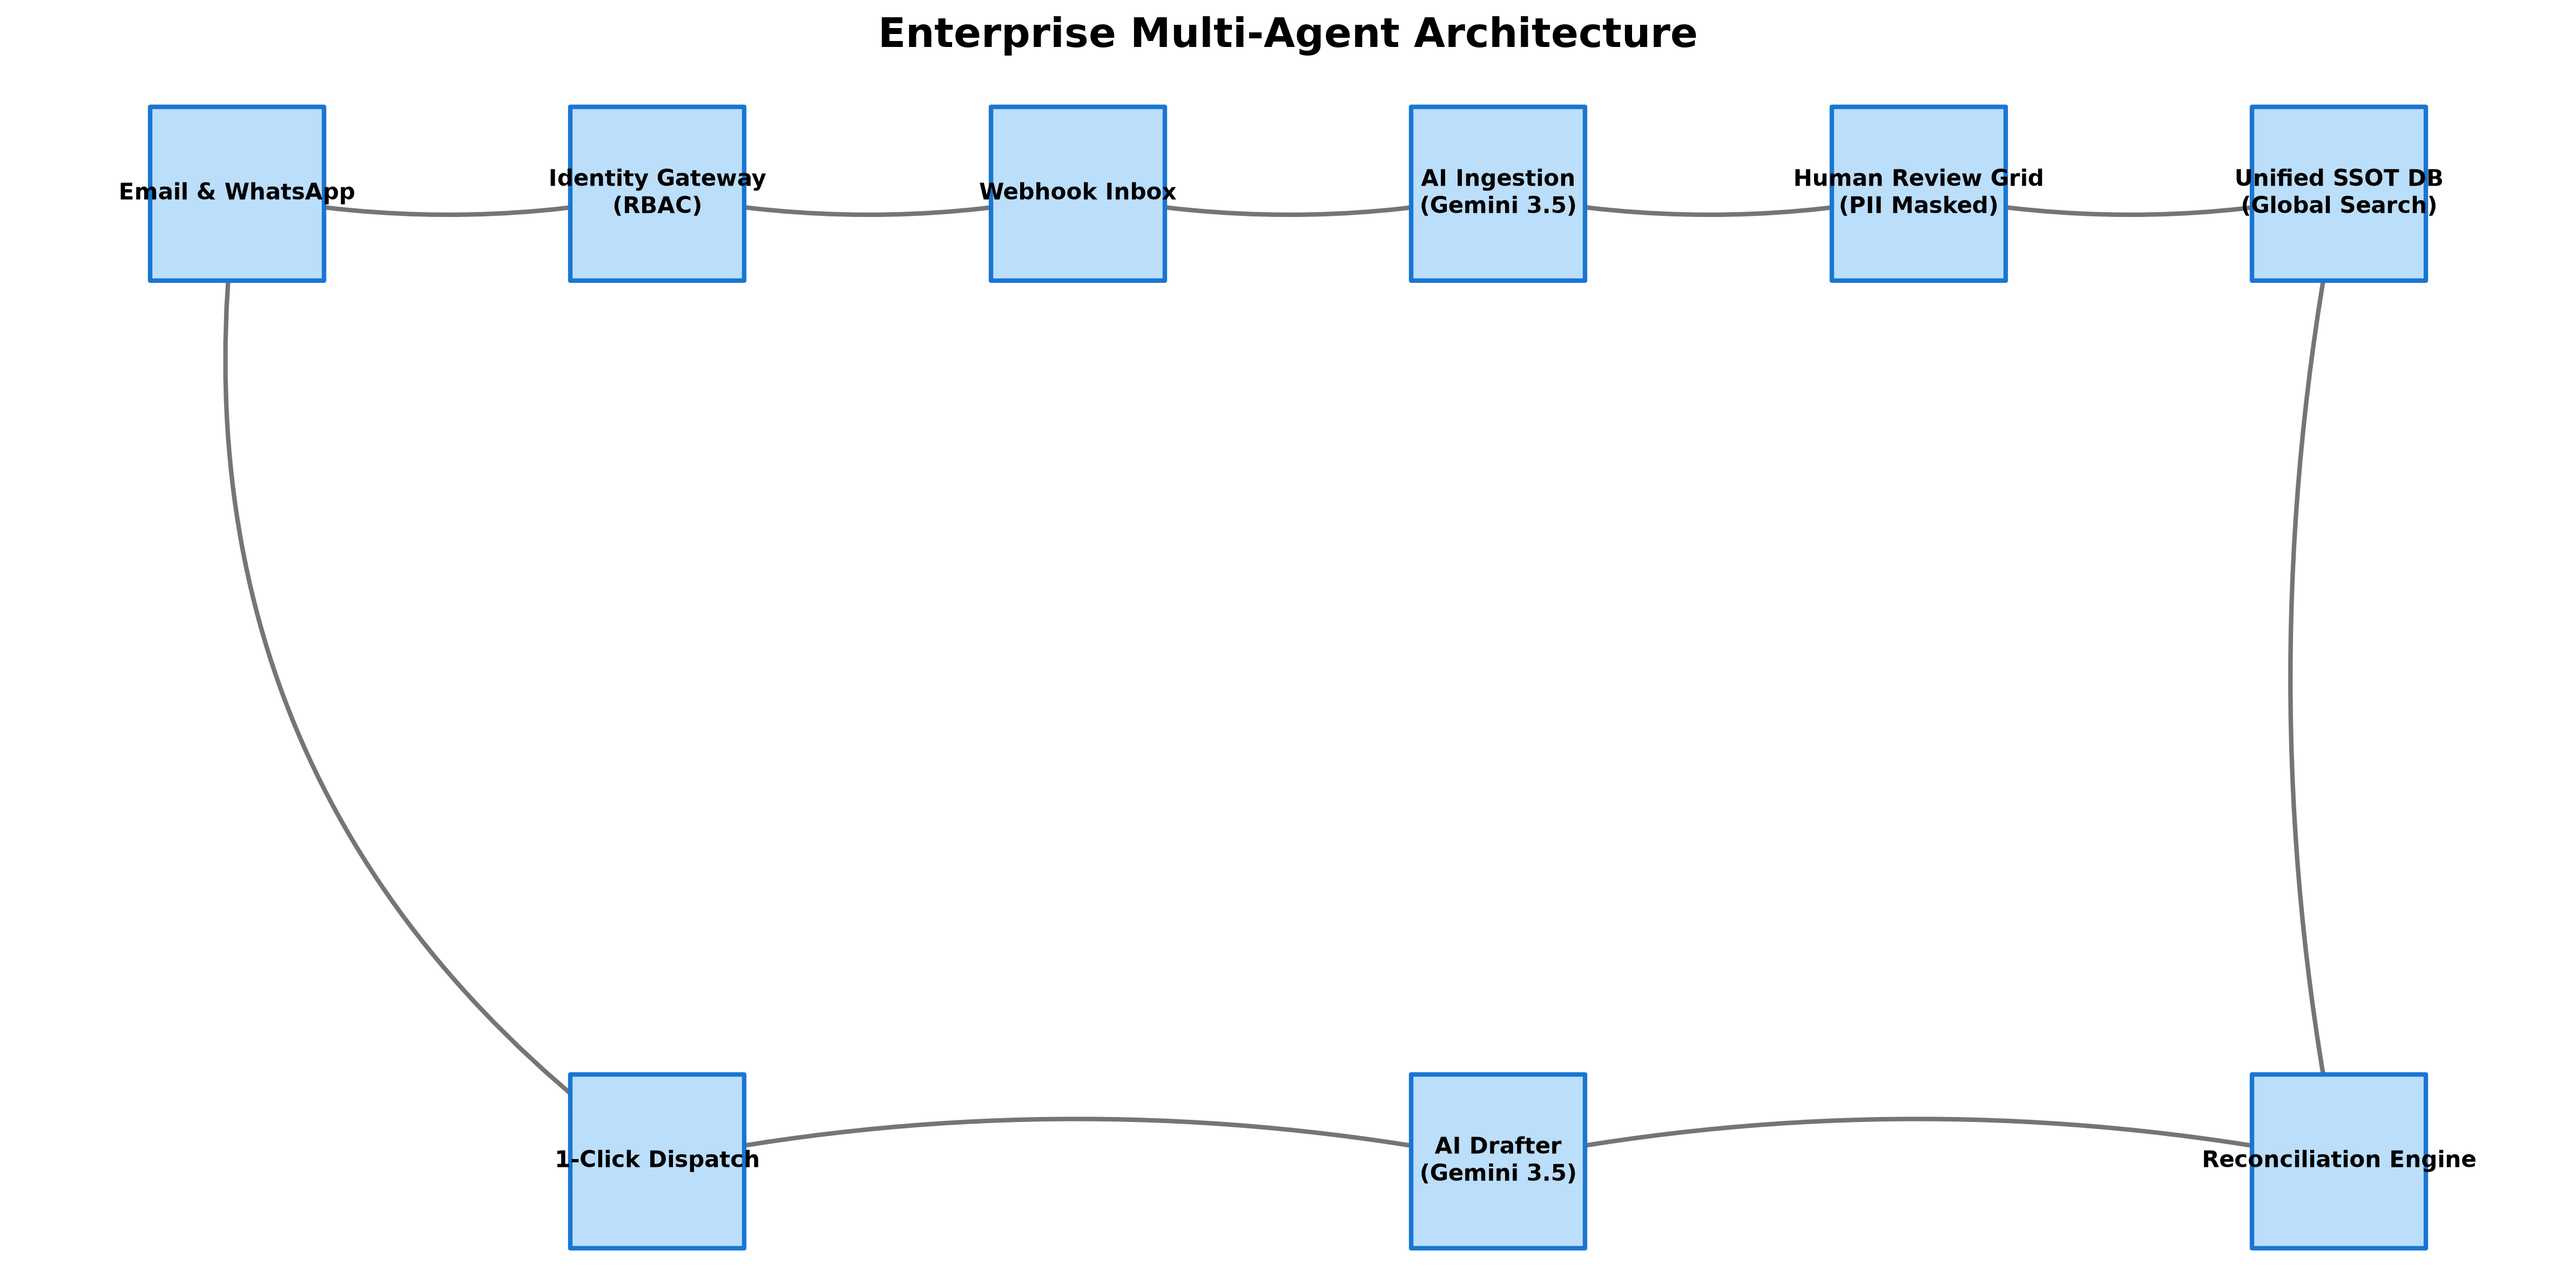
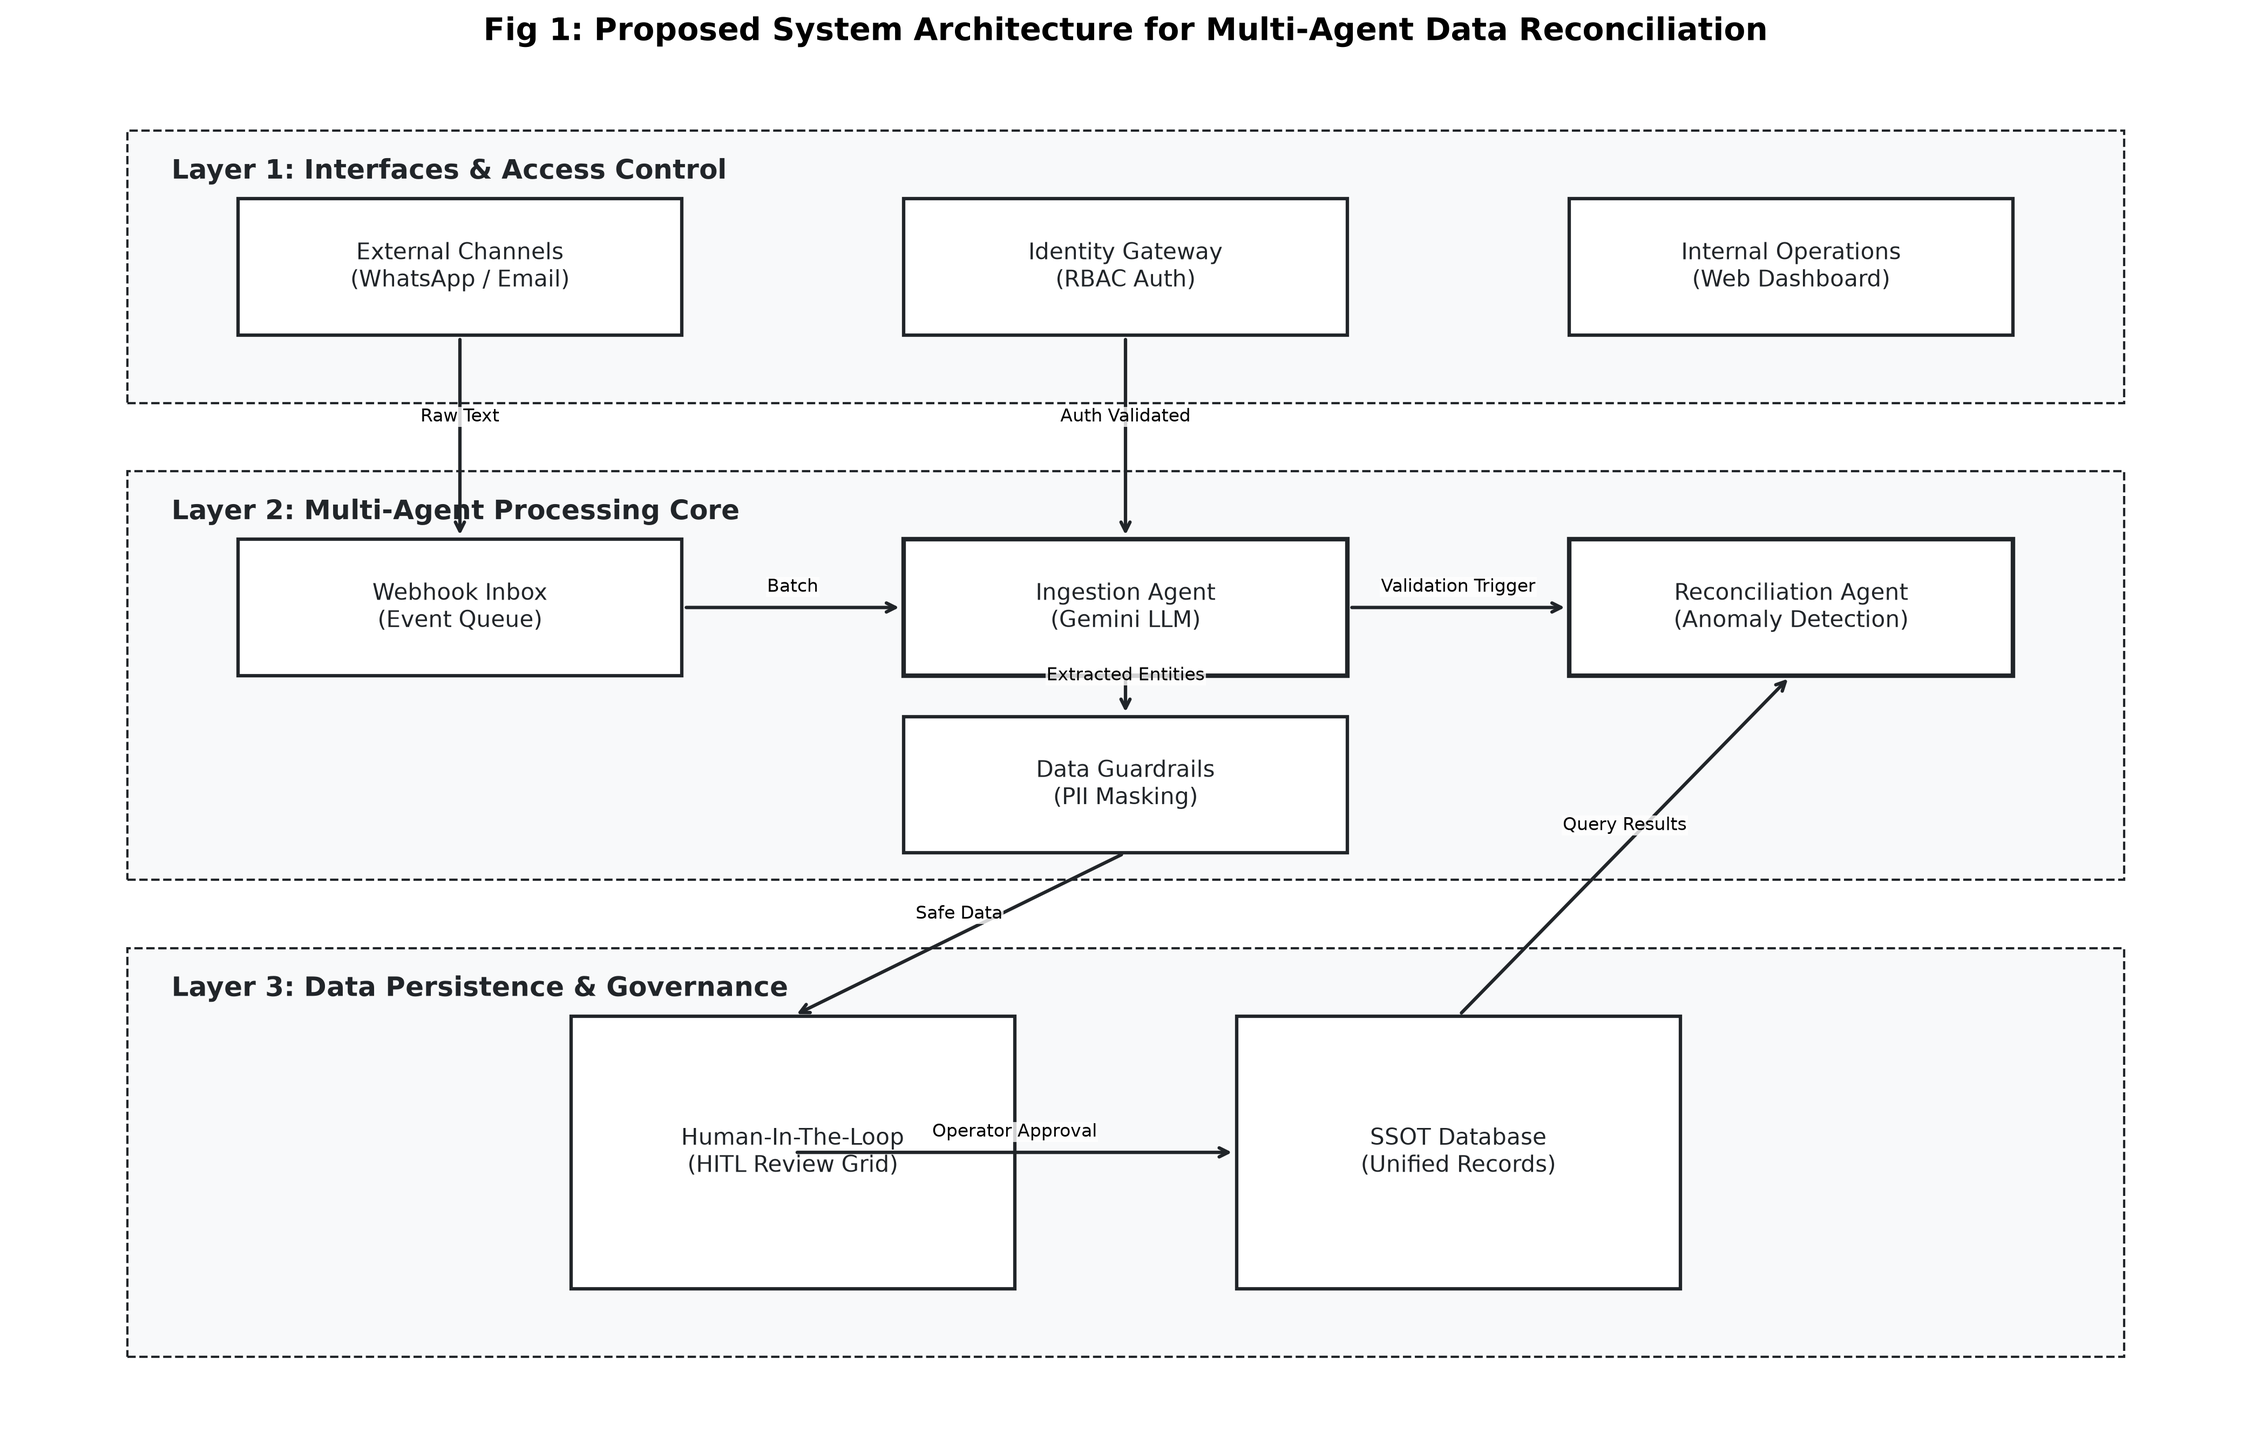
docs: Update architecture diagram to research-grade block diagram style

diff --git a/generate_research_arch.py b/generate_research_arch.py
@@ -1,0 +1,84 @@
+import matplotlib.pyplot as plt
+import matplotlib.patches as patches
+
+def generate_research_arch():
+    fig, ax = plt.subplots(figsize=(14, 9))
+    ax.set_xlim(0, 100)
+    ax.set_ylim(0, 100)
+    ax.axis('off')
+
+    # Styling for research-grade (Grayscale / Minimal)
+    bg_color = '#F8F9FA'
+    box_color = '#FFFFFF'
+    edge_color = '#212529'
+    text_color = '#212529'
+    font_family = 'sans-serif'
+    
+    def draw_layer_box(x, y, w, h, title):
+        # Background for the layer
+        ax.add_patch(patches.Rectangle((x, y), w, h, fill=True, facecolor=bg_color, edgecolor=edge_color, lw=1, linestyle='--'))
+        ax.text(x + 2, y + h - 3, title, ha='left', va='center', fontsize=12, fontweight='bold', color=edge_color, family=font_family)
+
+    def draw_box(x, y, w, h, text, is_agent=False):
+        lw = 2 if is_agent else 1.5
+        ax.add_patch(patches.Rectangle((x, y), w, h, fill=True, facecolor=box_color, edgecolor=edge_color, lw=lw))
+        ax.text(x + w/2, y + h/2, text, ha='center', va='center', fontsize=10, color=text_color, family=font_family)
+
+    def draw_arrow(x1, y1, x2, y2, label=None):
+        ax.annotate('', xy=(x2, y2), xytext=(x1, y1), arrowprops=dict(arrowstyle='->', lw=1.5, color=edge_color))
+        if label:
+            # Midpoint for label
+            mx = (x1 + x2) / 2
+            my = (y1 + y2) / 2
+            ax.text(mx, my + 1.5, label, ha='center', va='center', fontsize=8, family=font_family, bbox=dict(facecolor='white', edgecolor='none', alpha=0.8, pad=0.5))
+
+    # --- DRAW LAYERS ---
+    # Layer 1: Interfaces (Top)
+    draw_layer_box(5, 75, 90, 20, "Layer 1: Interfaces & Access Control")
+    
+    # Layer 2: Processing (Middle)
+    draw_layer_box(5, 40, 90, 30, "Layer 2: Multi-Agent Processing Core")
+    
+    # Layer 3: Persistence (Bottom)
+    draw_layer_box(5, 5, 90, 30, "Layer 3: Data Persistence & Governance")
+
+
+    # --- DRAW COMPONENTS ---
+    # Layer 1
+    draw_box(10, 80, 20, 10, "External Channels\n(WhatsApp / Email)")
+    draw_box(40, 80, 20, 10, "Identity Gateway\n(RBAC Auth)")
+    draw_box(70, 80, 20, 10, "Internal Operations\n(Web Dashboard)")
+
+    # Layer 2
+    draw_box(10, 55, 20, 10, "Webhook Inbox\n(Event Queue)")
+    draw_box(40, 55, 20, 10, "Ingestion Agent\n(Gemini LLM)", is_agent=True)
+    draw_box(70, 55, 20, 10, "Reconciliation Agent\n(Anomaly Detection)", is_agent=True)
+    draw_box(40, 42, 20, 10, "Data Guardrails\n(PII Masking)")
+
+    # Layer 3
+    draw_box(25, 10, 20, 20, "Human-In-The-Loop\n(HITL Review Grid)")
+    draw_box(55, 10, 20, 20, "SSOT Database\n(Unified Records)")
+
+
+    # --- DRAW ARROWS ---
+    # Layer 1 to 2
+    draw_arrow(20, 80, 20, 65, "Raw Text")
+    draw_arrow(50, 80, 50, 65, "Auth Validated")
+    
+    # Layer 2 Internal
+    draw_arrow(30, 60, 40, 60, "Batch")
+    draw_arrow(50, 55, 50, 52, "Extracted Entities")
+    draw_arrow(60, 60, 70, 60, "Validation Trigger")
+
+    # Layer 2 to 3
+    draw_arrow(50, 42, 35, 30, "Safe Data")
+    draw_arrow(35, 20, 55, 20, "Operator Approval")
+    draw_arrow(65, 30, 80, 55, "Query Results")
+
+    plt.title("Fig 1: Proposed System Architecture for Multi-Agent Data Reconciliation", fontsize=14, fontweight='bold', family=font_family, pad=10)
+    plt.tight_layout()
+    plt.savefig('deliverables/architecture.png', dpi=300, bbox_inches='tight')
+    print("Research-grade architecture diagram generated.")
+
+if __name__ == '__main__':
+    generate_research_arch()
